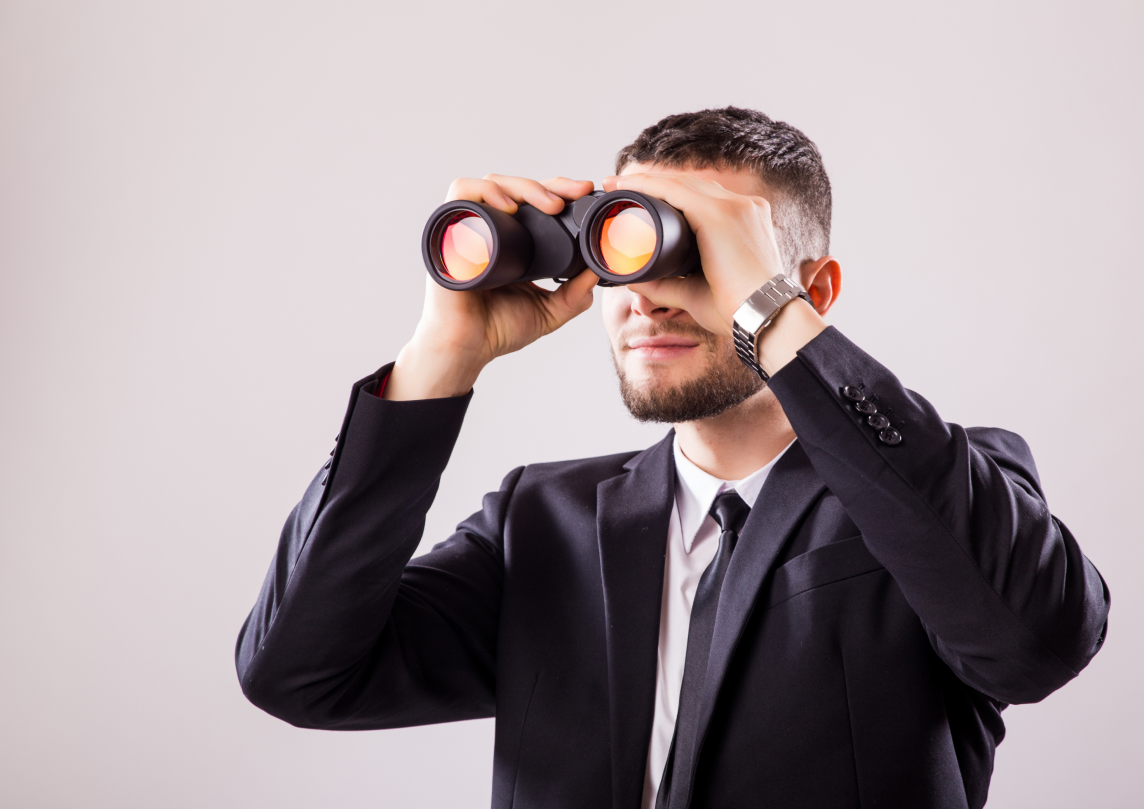
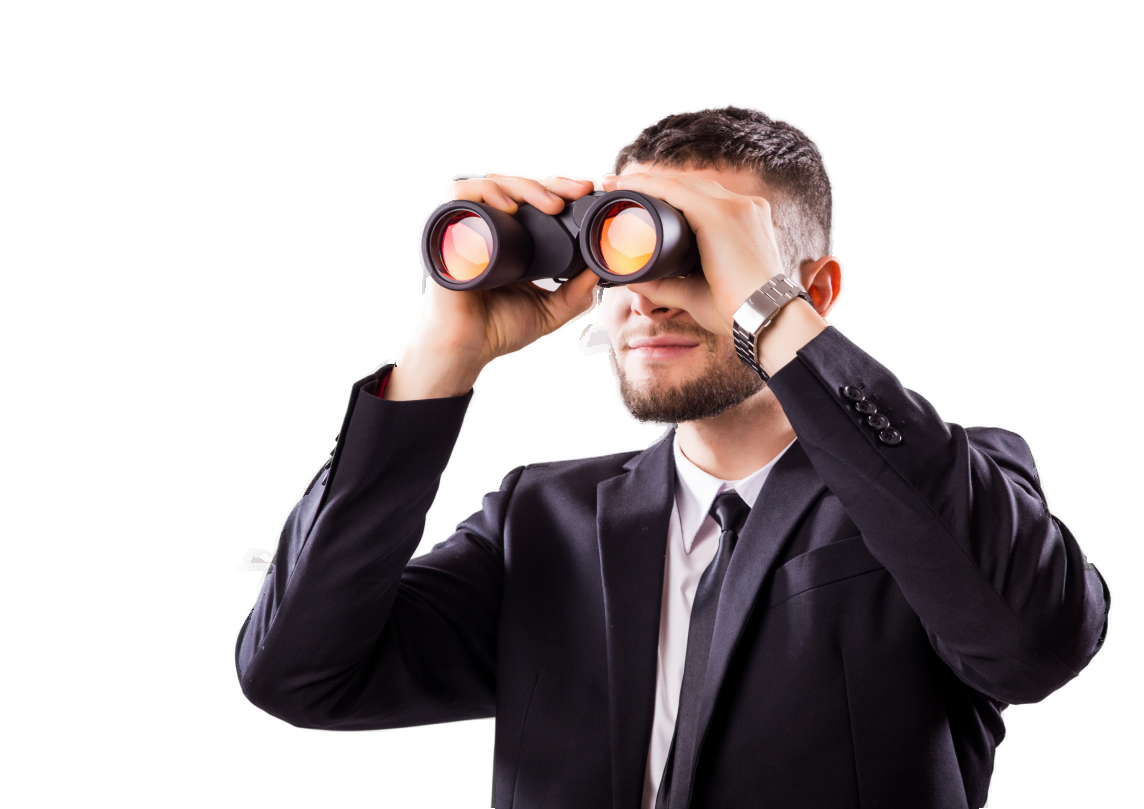
update

diff --git a/css/style.css b/css/style.css
@@ -357,9 +357,20 @@ p.text {
 .drive-bonus-section {
     margin-top: 60px;
     padding:  40px 0;
+    background-image: url(../images/gradient-silver-bg.jpg);
+    background-position: center center;
+    background-size: cover;
+    background-repeat: no-repeat;
+    border-radius: 100px 100px 0 0;
 }
 .busines-section {
     margin-top: 60px;
+    padding: 60px 0;
+    background-image: url(../images/businessman-looking.png), url(../images/businessman-looking-bg.png);
+    background-position: bottom 0 right 0px, center center;
+    background-size: 55%, cover;
+    background-repeat: no-repeat, no-repeat;
+    border-radius: 100px;
 }
 .faq-section {
     margin-top: 60px;
@@ -373,7 +384,17 @@ p.text {
 }
 
 .accessible-section .container.relative {
-    padding: 75px 740px 0 50px;
+    padding: 75px 680px 0 50px;
+    margin-top: 0;
+}
+.accessible-section .container { 
+    margin-top: 70px;
+}
+.accessible-section .container .scroll-title {
+    margin-bottom: 30px;
+}
+.accessible-section .container .market-title {
+    margin-bottom: 40px;
 }
 .cases-section {
     margin-top: 60px;
@@ -406,20 +427,6 @@ p.text {
     z-index: 1;
 }
 
-.drive-bonus-section {
-    background-image: url(../images/gradient-silver-bg.jpg);
-    background-position: center center;
-    background-size: cover;
-    background-repeat: no-repeat;
-    border-radius: 100px 100px 0 0;
-}
-.busines-section {
-    background-image: url(../images/businessman-looking-bg.png);
-    background-position: center center;
-    background-size: cover;
-    background-repeat: no-repeat;
-    border-radius: 100px;
-}
 
 .section-title {
     background-color: var(--color-dark-bg);
@@ -850,10 +857,14 @@ p.text {
     position: relative;
     left: -450px;
 }
+.documents-list .market-point {
+    margin-top: 14px;
+}
 
 .steps-flex {
     display: flex;
     gap: 20px;
+    margin-bottom: 20px;
 }
 .step-item {
     width: 100%;
@@ -1003,6 +1014,38 @@ p.text {
     width: fit-content;
     letter-spacing: 2px;
 }
+
+.busines-section .text {
+    font-family: Arial, Helvetica, sans-serif;
+    font-size: 18px;
+    color: var(--color-black);
+    margin: 40px 0;
+    max-width: 700px;
+}
+.exp-row {
+    display: flex;
+    gap: 100px;
+    border-bottom: 1px solid var(--color-black);
+    max-width: 662px;
+}
+.exp-row .block {
+    width: 240px;
+    display: flex;
+    flex-direction: column;
+    font-family: var(--font-family-primary);
+    font-weight: bold;
+    font-size: 16px;
+    padding-bottom: 30px;
+    margin-top: 30px;
+}
+.busines-section .exp-row:nth-child(3) .block {
+    margin-top: 0;
+}
+.exp-row .block .large {
+    font-size: 48px;
+    white-space: nowrap;
+}
+
 
 .accordions-grid {
     display: grid;
